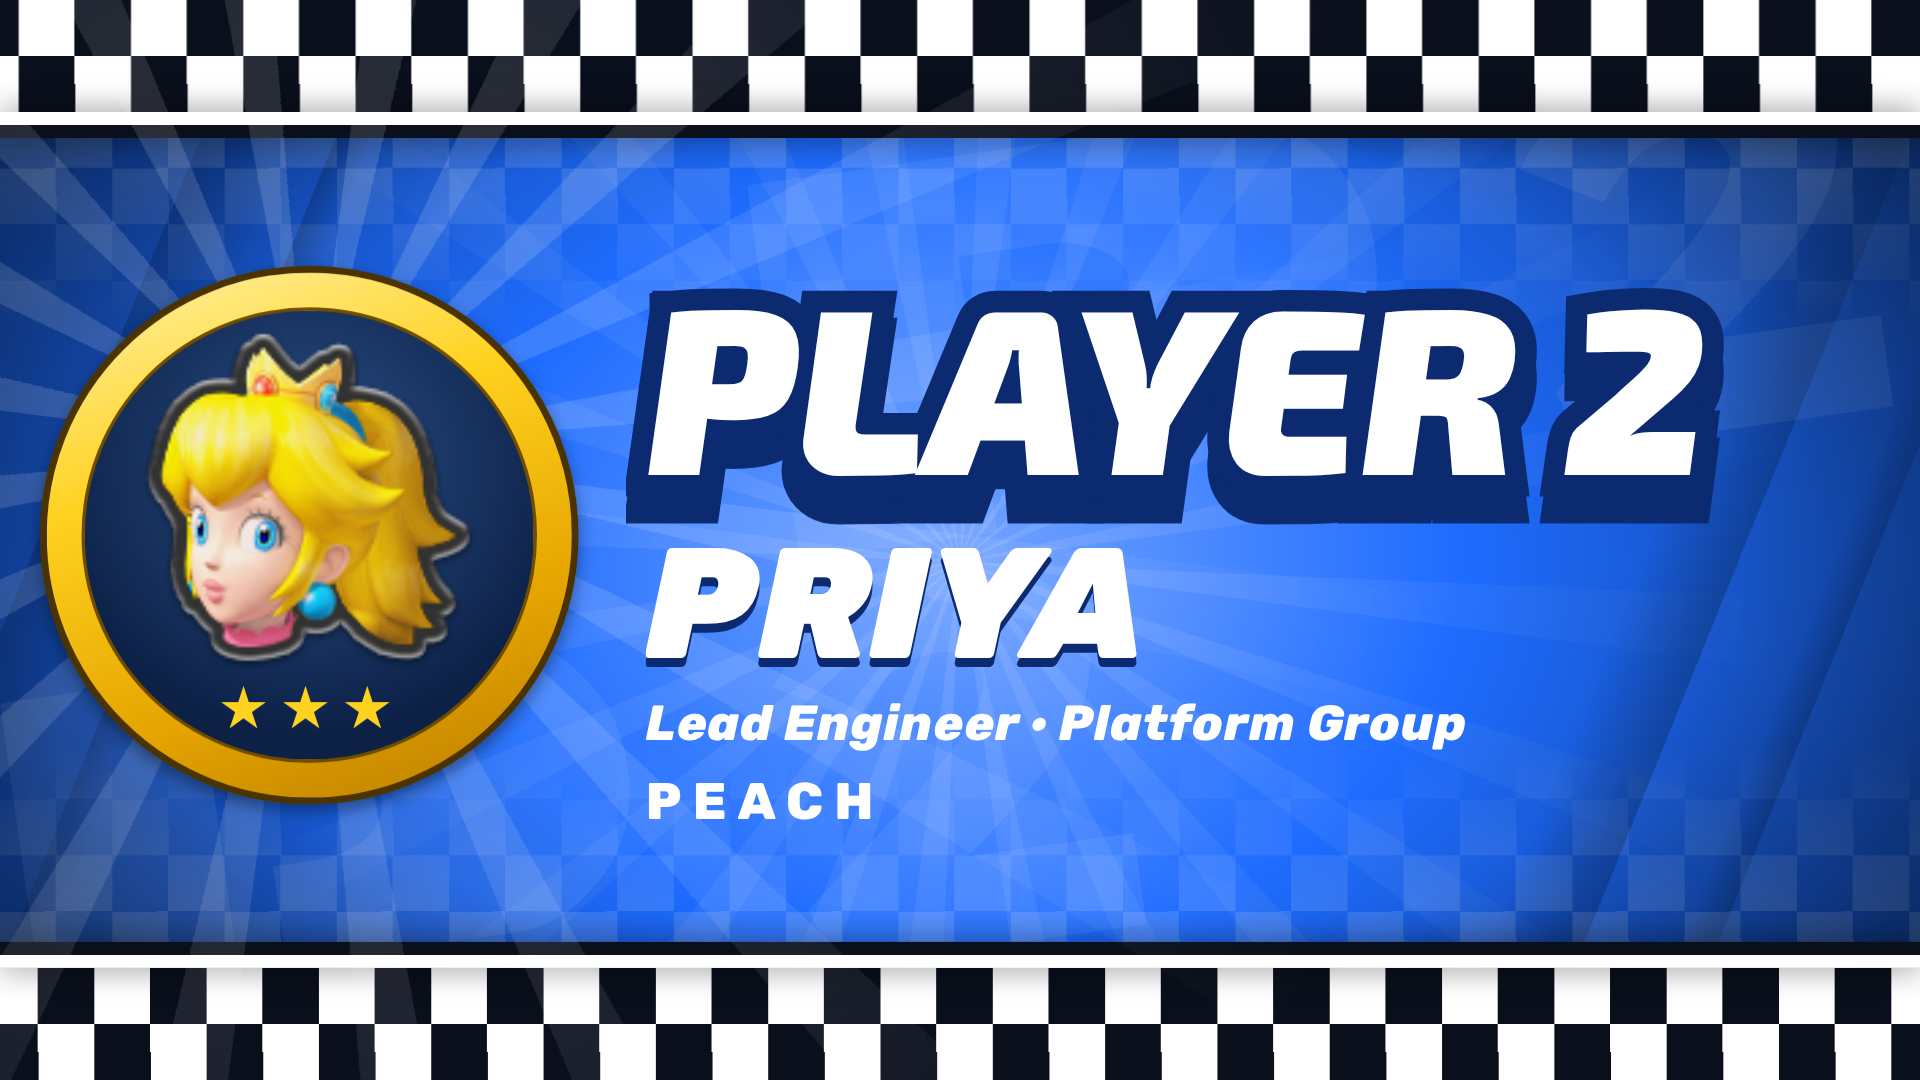
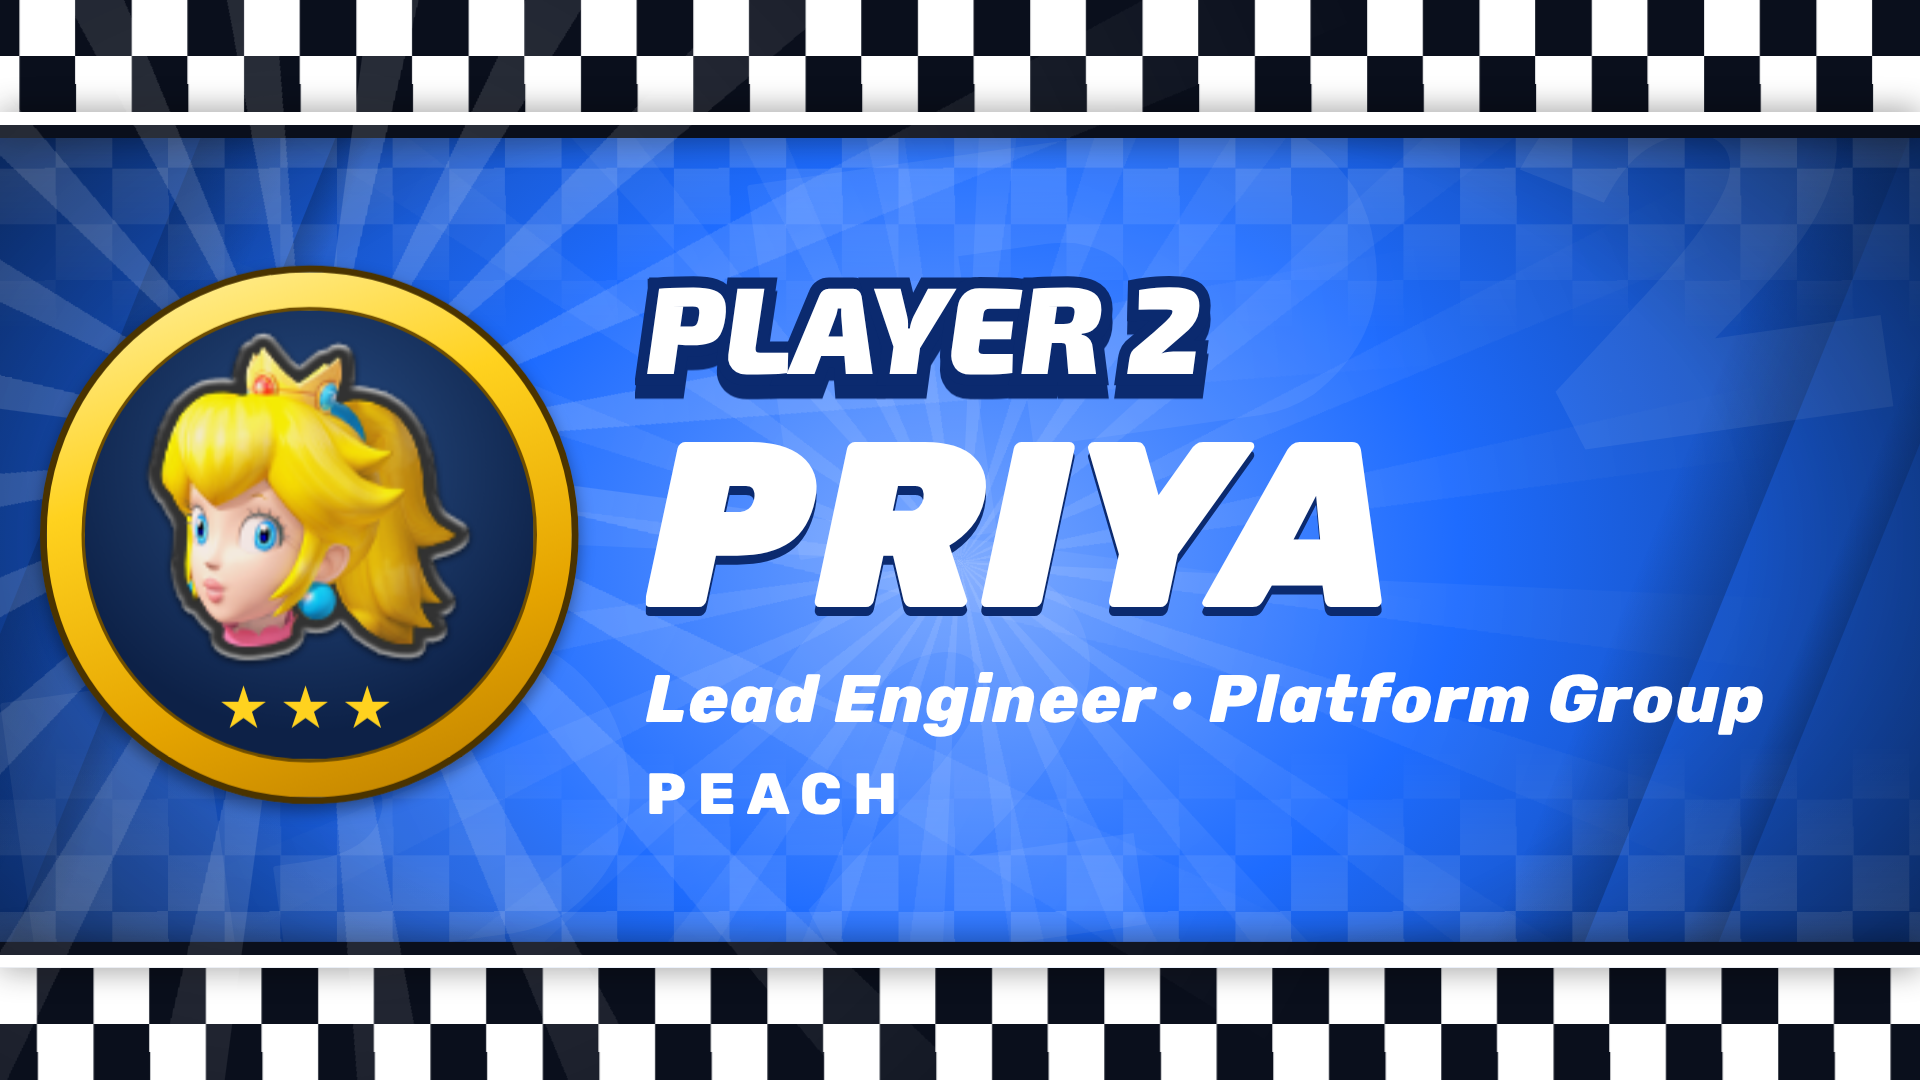
Announce mockup: smaller PLAYER n heading, bigger name and subtitle
Claude-Session: https://claude.ai/code/session_01R22nCwsbcDxb1jCaw4VY3u

Changed region(s): [[0.3125, 0.2444, 0.9375, 0.7639]]

diff --git a/docs/mockups/scenes/player-announce.html b/docs/mockups/scenes/player-announce.html
@@ -9,14 +9,14 @@
 <script src="../shared/mockup.js"></script>
 <script>
   /* Player announcement = winner hero (WinHero.svelte) on background D · Player Announce.
-     Same hero structure and sizes: medallion beside the text on wide (design 1640×640: medallion 480, heading 210, name 140 / max 1060,
-     character 46) or stacked on hd/twin (design 900×880: medallion 340, heading 170, name 110 / max 860, character 38). The hero is uniformly scaled
+     Same hero structure and sizes: medallion beside the text on wide (design 1640×640: medallion 480, heading 110, name 210 / max 1100,
+     subtitle 60, character 52) or stacked on hd/twin (design 900×880: medallion 340, heading 90, name 150 / max 860, subtitle 44, character 40). The hero is uniformly scaled
      (max 1.35×) into the area between the flag bands. Heading text is "PLAYER n". Subtitle (player profile field `subtitle`: job title · group) sits under the name; empty = hidden. ?sub=Job%20Title%20%C2%B7%20Group
      ?slot=0..3  ?colour=red|blue|…  ?format=wide|hd|twin  ?look=classic|chrome|plain */
   const HEX = { red: '#e60012', blue: '#1e6cff', green: '#22b14c', yellow: '#ffc400', pink: '#ff5fa2', orange: '#ff8a00', purple: '#8b5cf6', cyan: '#06b6d4' };
   const ART = ['mario', 'peach', 'yoshi', 'bowser'].map((n) => `../../../assets/characters/${n}.png`);
-  const DESIGN = { h: { dw: 1640, dh: 640, med: 480, head: 210, nm: 140, nmw: 1060, ch: 46, chs: 10, sub: 44, gap: 60 },
-                   v: { dw: 900,  dh: 880, med: 340, head: 170, nm: 110, nmw: 860,  ch: 38, chs: 8,  sub: 38, gap: 6 } };
+  const DESIGN = { h: { dw: 1640, dh: 640, med: 480, head: 110, nm: 210, nmw: 1100, ch: 52, chs: 10, sub: 60, gap: 60 },
+                   v: { dw: 900,  dh: 880, med: 340, head: 90, nm: 150, nmw: 860,  ch: 40, chs: 8,  sub: 44, gap: 6 } };
   const format = MK.param('format', 'wide');
   MK.page(format, (f, S) => {
     const slot = +MK.param('slot', 0), p = Object.assign({}, S.players[slot], { art: ART[slot] });
